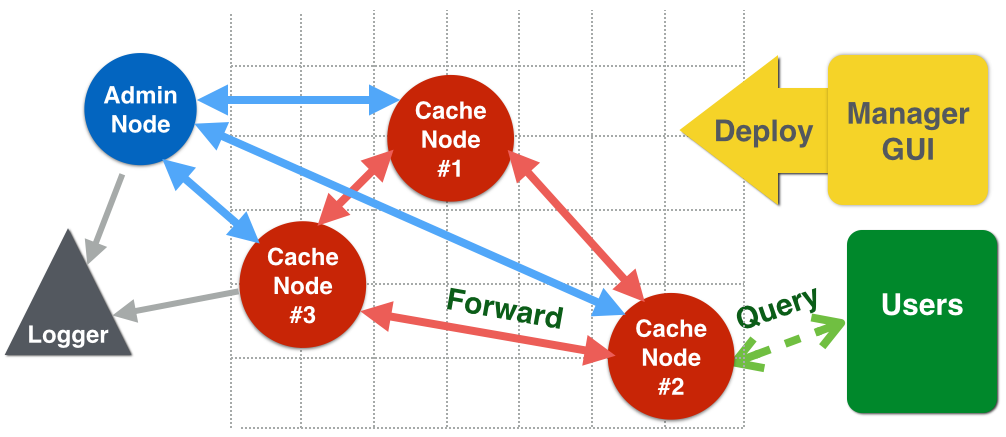
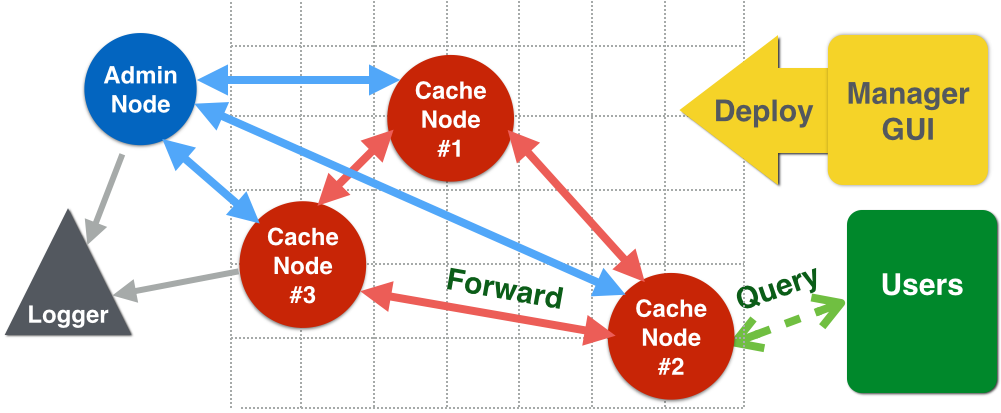
change result graphs, crop arch2 a little more, fix carlos' suggestions

diff --git a/lni_paper/LNI_paper.tex b/lni_paper/LNI_paper.tex
@@ -40,16 +40,11 @@ Moreover, the distribution of data can be skewed, i.e. non-uniformly clustered a
 Given these spatial and temporal characteristics, 
 we are interested in minimizing decreases in system performance under such loads or data distribution. 
 Much research has focused on load-balancing mechanisms for distributed systems with spatial data.
-A common technique is to partition data and then build a network overlay, which dedicates nodes to handle requests for certain partitions 
-\cite{client:wee}.
-Other approaches estimate query loads or calculate weights to place more nodes around expected hotspots \cite{grids:scholl}. 
+A common technique is to partition data and then build a network overlay, which dedicates nodes to handle requests for certain partitions \cite{client:wee}.
+Other approaches estimate query loads or calculate weights to place more nodes around expected hotspots \cite{grids:scholl}.
 Yet it is difficult to predict or respond to changes, such as moving hotspots. 
 A more effective approach dedicates nodes in the overlay to cache frequently accessed data; 
-this network is referred to as a \emph{distributed spatial cache overlay}. 
-
-Our system is based on \cite{MultiLevel:Lueb2}. 
-The data region is partitioned into a 2D grid. 
-Then a distributed cache overlay is built on top which consists of nodes dedicated to caching data from certain grid partitions. Our grid of cache nodes forms a Delauney triangulation in a 2D metric space. A cache node's coordinate is known as it's \emph{cache focus}, which is important when load-balancing or caching data. Greedy routing is used to forward queries to a target node; the desired data are within a specified distance to that node's cache focus.
+this network is referred to as a \emph{distributed spatial cache overlay} \cite{MultiLevel:Lueb2}. 
 
 However, none of the previously mentioned load-balancing approaches in distributed spatial overlays 
 can increase throughput beyond what is already the system maximum. 
@@ -60,6 +55,15 @@ Removing nodes is referred to as \emph{scaling-in}, whereas adding nodes is refe
 In the scope of our project, we investigate whether scaling-out mitigates dynamic peaks in a distributed spatial cache overlay. 
 
 \section{Architecture and Methodology}
+
+Our system is inspired by the concepts presented in \cite{MultiLevel:Lueb2}. 
+The data region is partitioned into a 2D grid. 
+Then a distributed cache overlay is built on top which consists of nodes dedicated to caching data from certain grid partitions. 
+Our grid of cache nodes forms a Delaunay triangulation in a 2D metric space. 
+A cache node's coordinate is known as it's \emph{cache focus}, which is important when load-balancing or caching data. 
+Greedy routing is used to forward queries to a target node; the desired data are within a specified distance to that node's cache focus.
+Based on these general principles, we implemented a scaling-out mechanism for the distributed spatial cache overlay in a cluster environment.
+
 Our system architecture, as seen in Figure \ref{arch}, consists of grid of cache nodes that are organized spatially and deployed on a cluster.  
 Nodes receive external queries, which they can forward. 
 An external GUI launches and shuts the system down. 
@@ -80,35 +84,37 @@ The goal of our experiment was to quantify latency under uniform and non-uniform
 In the uniform case, the target coordinates of the queries are distributed uniformly.
 However in the non-uniform case, we can simulate the formation of hotspots: 
 the target coordinate is obtained by sampling a Gaussian distribution 
-with a standard deviation of 0.18 times the area of the data region that is centered around a point in the grid. We measured request latency of the cache overlay under three experimental groups, depending on the type of distribution and presence of scaling-out: 
+with a standard deviation of 0.18 times the area of the data region that is centered around a point in the grid. 
+We measured request latency of the cache overlay under three experimental groups
+\footnote{We briefly examined the effect of uniform distributions without scaling-out. 
+The latency was, as expected, worse than uniform with scaling, but better than our hotspot tests.}
+, depending on the type of distribution and presence of scaling-out: 
 (1) uniform plus scaling-out, 
 (2) hotspot plus scaling-out , 
-(3) hotspot without scaling-out. 
+(3) hotspot.
 
 The distributed spatial cache overlay was launched on a cluster of up to 32 (virtual) machines. 
 Our benchmarking program sent each cache node $k$ queries per second. 
 This query rate corresponds to about $1000/k$ milliseconds between two successive queries. 
 For every experimental group, we ran the benchmark program with query rates of $k = 15$ and $k=20$ 
-and a given number of nodes ($n = 8, 12, 16$). 
-During our tests with scaling, we added up to 16 new cache nodes.
+and a given number of nodes ($n = 8, 12, 16$).
+\footnote{The remaining (virtual) machines are used during scaling.}
 Each run lasted $10$ seconds, so the total number of queries sent to the grid during each run was $n \cdot 10 \cdot k$. 
 
 \section{Results and Discussion}
 	For a given grid size $n$ and query rate $k$, Figures \ref{resultsk15}, \ref{resultsk20} show the median latencies in milliseconds of all queries, 
 	according to experimental group.
-\footnote{We briefly examined the effect of uniform distributions without scaling-out. 
-The latency was, as expected, worse than uniform with scaling, but better than our hotspot tests.}
 
   \begin{figure}[htb]
     \begin{center}
-		\includegraphics[width=.57\textwidth]{results15}
+		\includegraphics[width=.61\textwidth]{results15}
        \caption{\label{resultsk15} Median Request Latency in $ms$, k=15}
      \end{center}
 	\end{figure}
 
 	 \begin{figure}[htb]
     \begin{center}
-			\includegraphics[width=.57\textwidth]{results20}
+			\includegraphics[width=.61\textwidth]{results20}
        \caption{\label{resultsk20} Median Request Latency $ms$, k=20}
      \end{center}
 	\end{figure}
@@ -116,9 +122,9 @@ The latency was, as expected, worse than uniform with scaling, but better than o
 We hypothesized that with scaling-out, our system could approximate linear scalability 
 in both the uniform and non-uniform cases. 
 Our results support our hypothesis. Under the higher request rate $k=20$, 
-latency increases markedly for the non-uniform (no scaling-out) group. 
-In contrast, the median times for the non-uniform (scaling-out) group when $n=16$ remain within 30 percent of the median latencies 
-when $n=8$, although the total number of nodes has doubled and therefore the amount of queries being routed to the hotspot has also doubled.
+latency increases markedly for the hotspot group. 
+In contrast, the median times for the hotspot (with scaling-out) group when $n=16$ remain within 30 \% of the median latencies 
+when $n=8$, although the total number of nodes and therefore the amount of queries being routed to the hotspot has doubled.
 			
 \section{Conclusion and Future Work}
 In our study, we designed, implemented and evaluated a distributed spatial cache overlay 
@@ -126,7 +132,7 @@ that is flexible enough to allow implementations of sophisticated load-balancing
 This cache overlay serves as the basis for further comparisons of various load-balancing mechanisms 
 to see whether linear scalability can be achieved. 
 We confirmed that non-uniform workloads cause the system's performance and scalability to degrade under higher query rates. 
-Using our scaling-out mechanism, we were able to scale the system's performance almoast lineraly.
+Using our scaling-out mechanism, we were able to scale the system's performance almost linearly.
 
 Based on our current results, our primary focus will be to implement scaling-in load-balancing 
 to handle changes in both global and relative load. 
